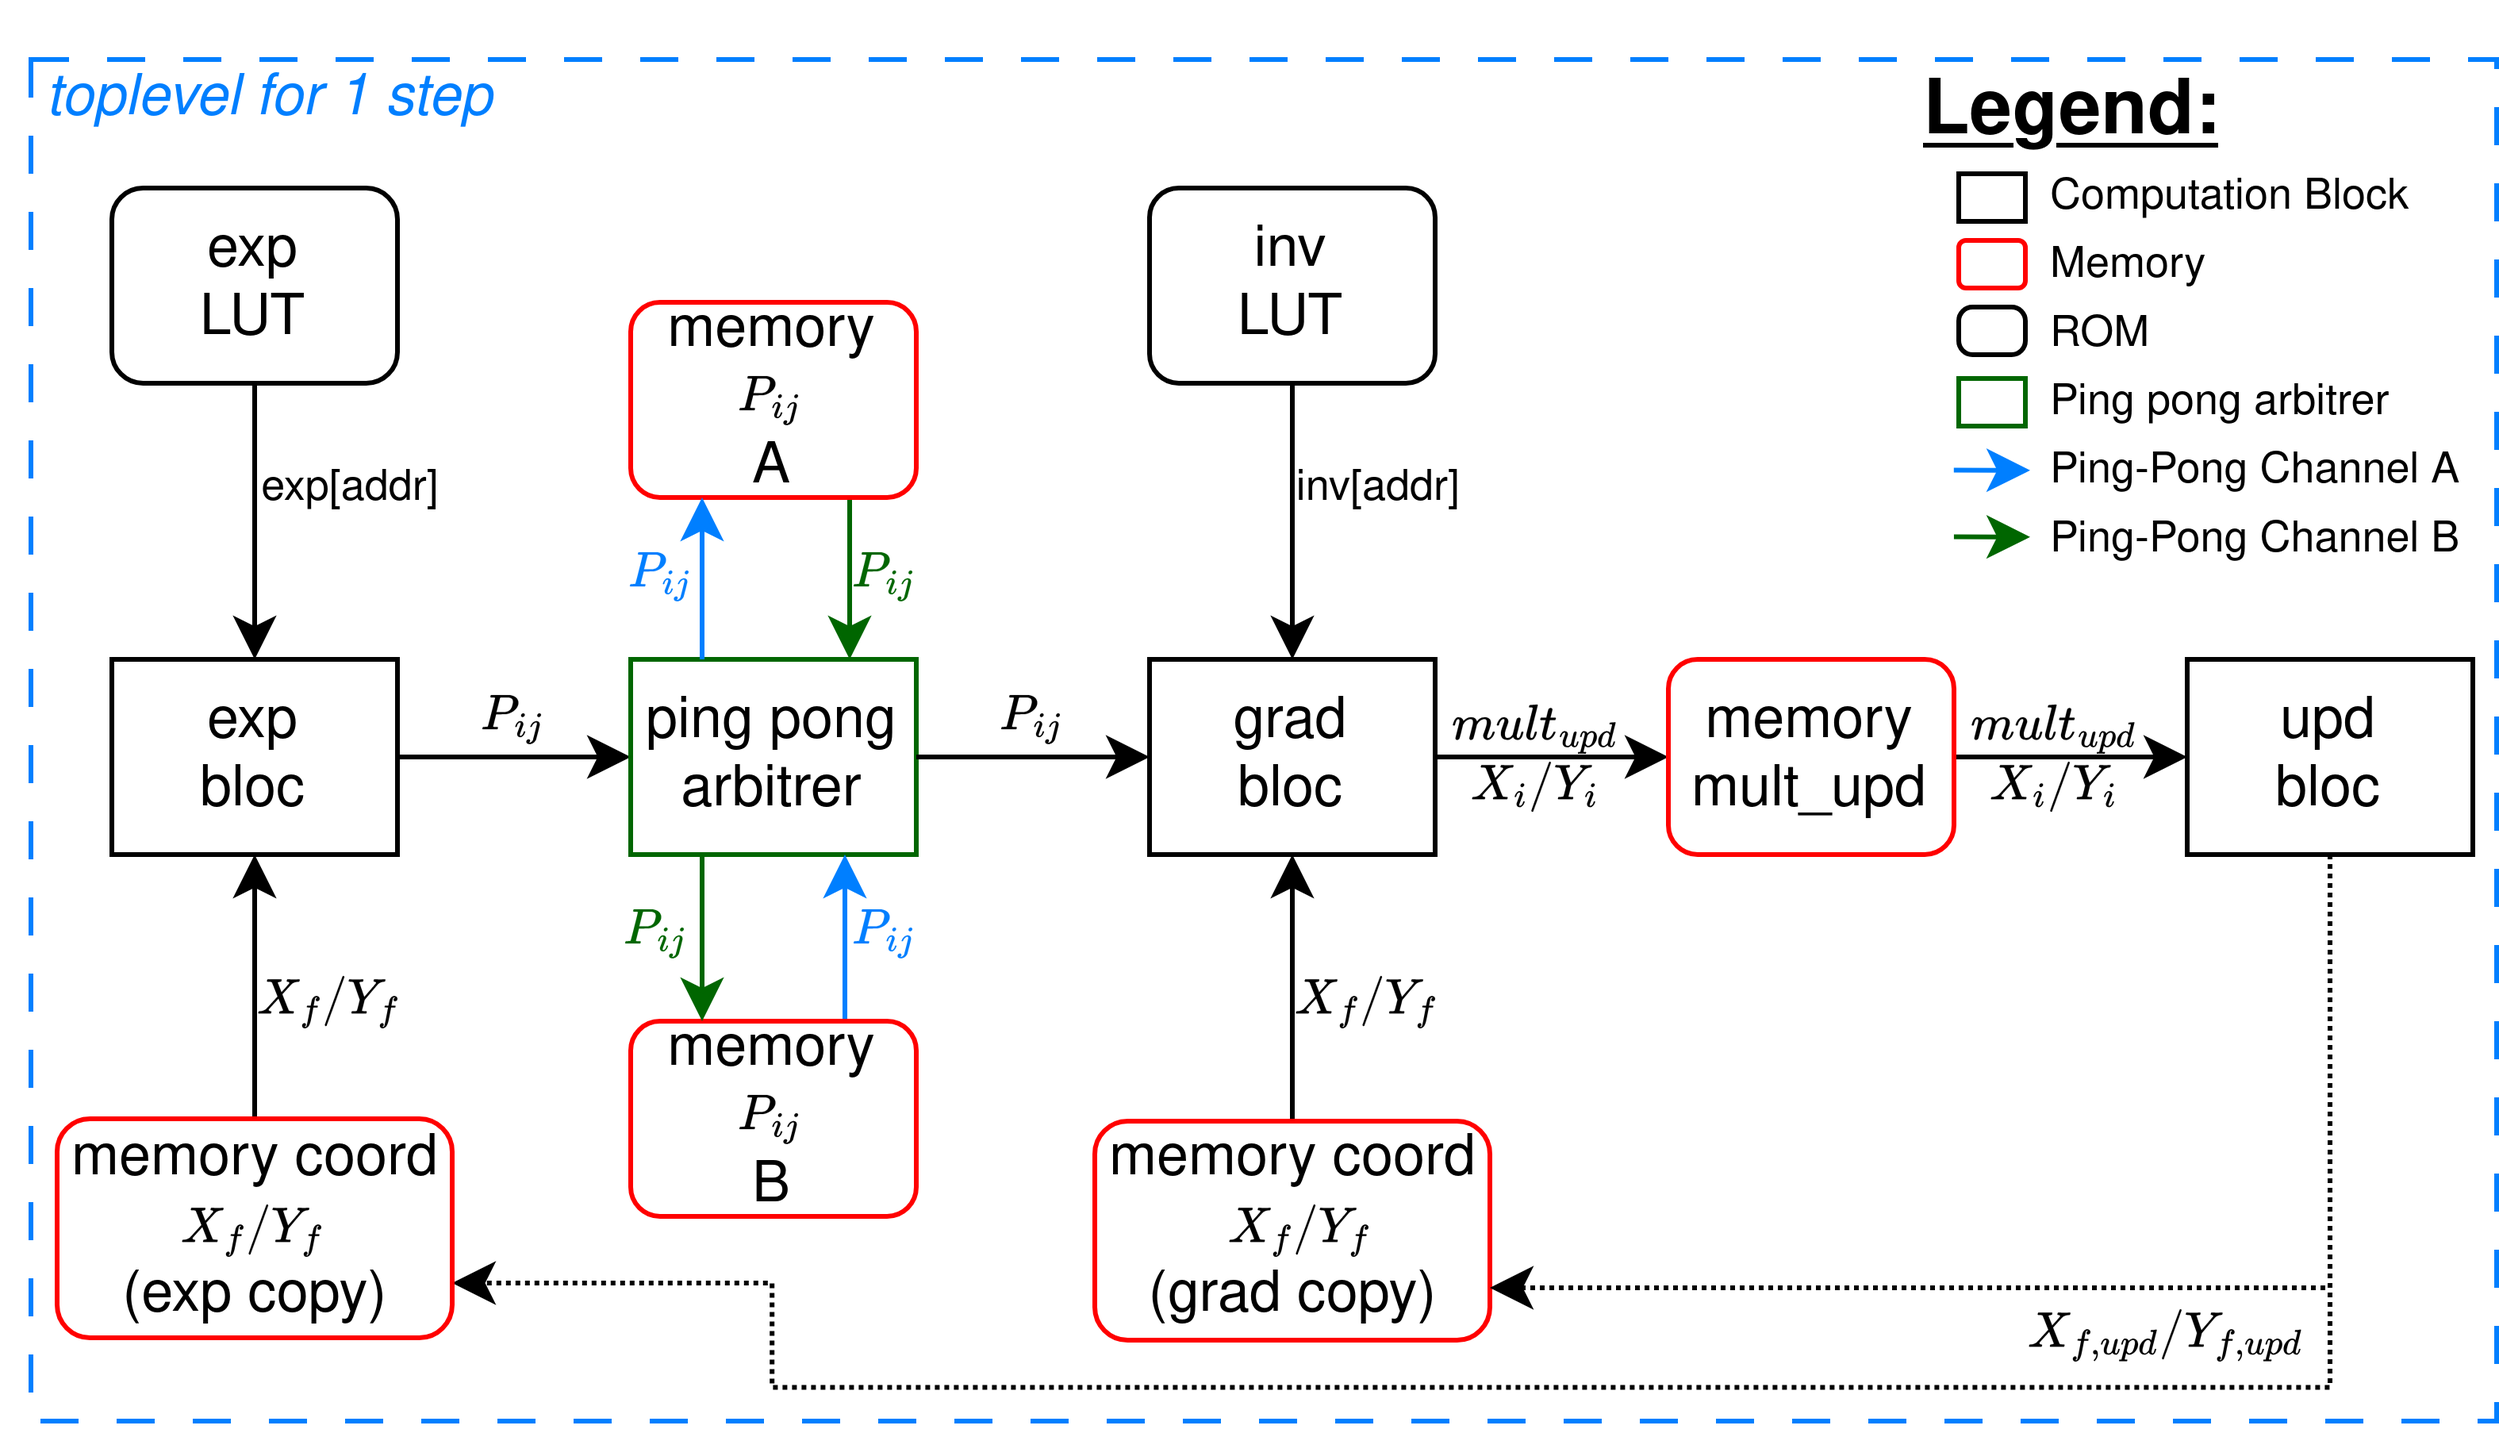
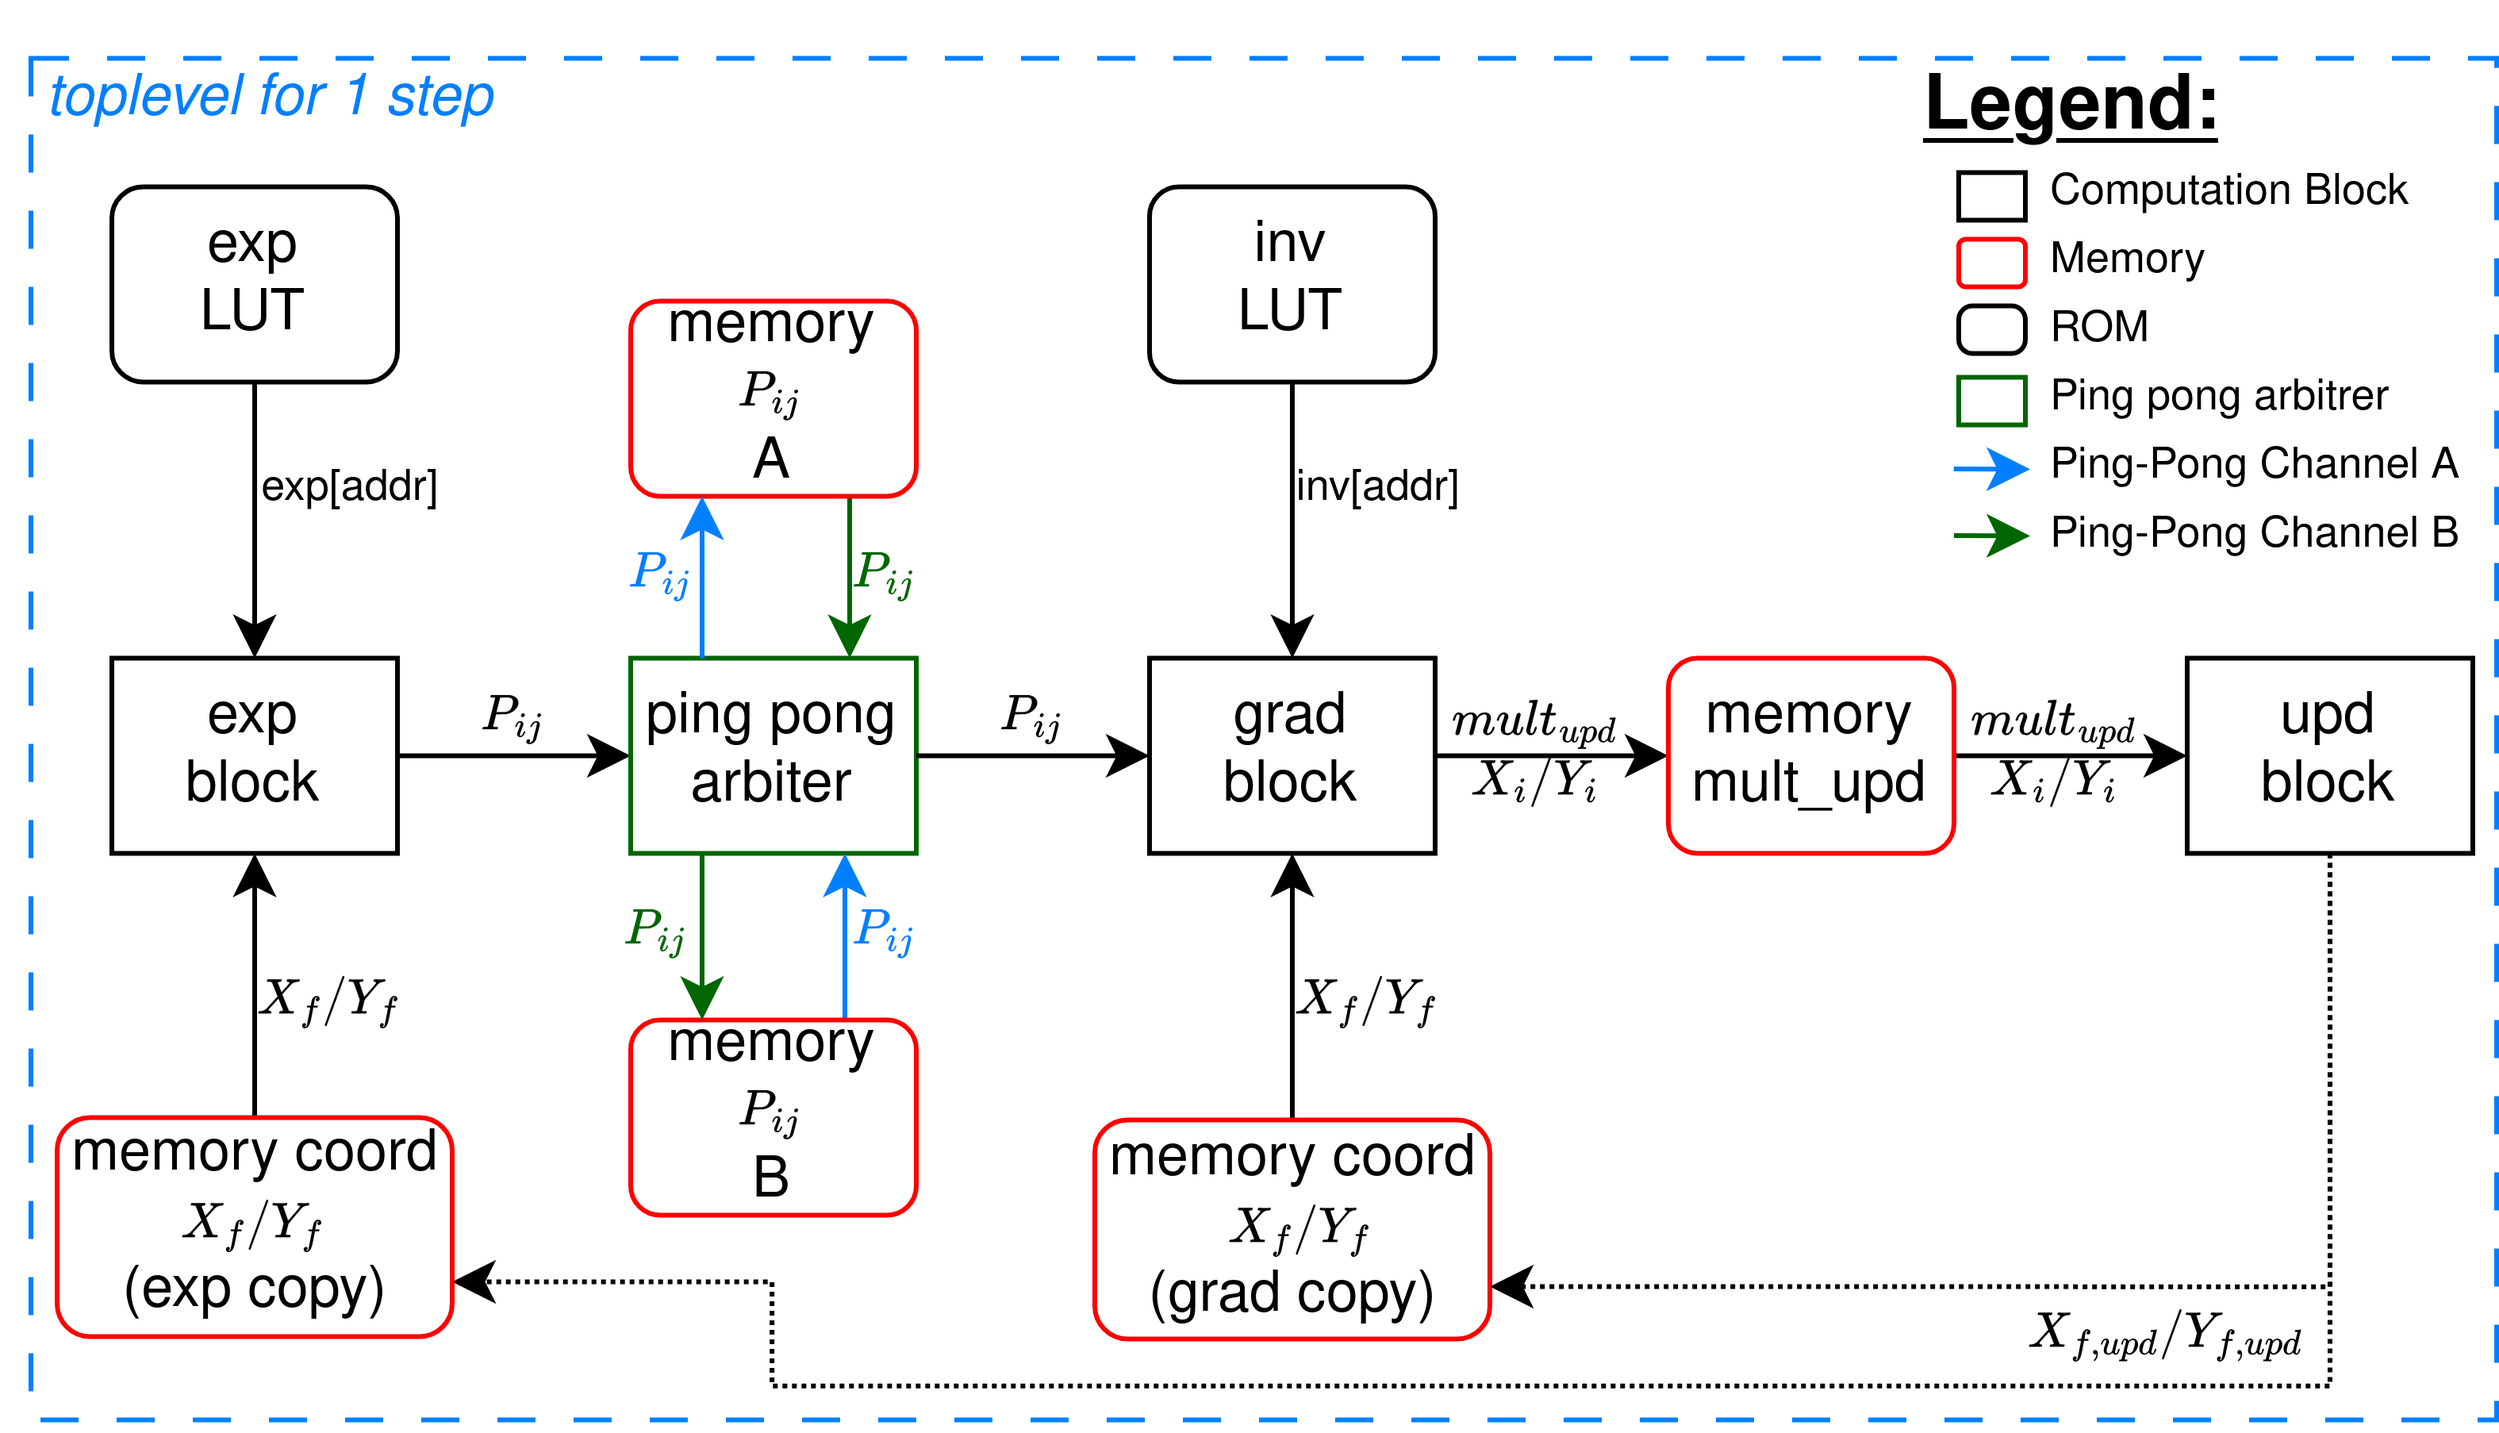
fix directory in .md files

diff --git a/docs/ARCHITECTURE.md b/docs/ARCHITECTURE.md
@@ -2,7 +2,7 @@
 
 Ce document détaille le cheminement complet du projet : du modèle logiciel de référence fourni par le laboratoire jusqu'à l'architecture matérielle SystemVerilog qui en découle, en passant par la quantification et les arbitrages de conception. Pour une vue d'ensemble rapide, voir le [README](../README.md). Pour le détail argumenté de chaque choix fort, voir les [ADR](decisions/).
 
-> **Périmètre de ce document** : l'architecture toplevel et les décisions de conception qui la structurent. Le détail micro-architectural interne des blocs `exp` et `grad` (pipeline interne, timing exact des états) n'est pas couvert ici — ce sera documenté séparément une fois stabilisé.
+> **Périmètre de ce document** : architecture toplevel et décisions de conception qui structurent le projet. Le détail micro-architectural interne des blocs de calcul [exp](blocks/exp_block.md), [grad](blocks/grad_block.md), [ping_pong_arbiter](blocks/ping_pong_arbiter.md), [upd](blocks/upd_block.md), [cluster_assign](blocks/cluster_assign.md) est couvert dans [blocks](blocks/).
 
 ---
 
@@ -24,7 +24,7 @@ C'est cette structure en deux temps — **la boucle itérative qui déplace les 
 
 ## 2. Le constat qui a orienté toute l'architecture : la matrice O(n²)
 
-En analysant le code de référence, le premier problème saute aux yeux : à chaque itération, l'algorithme construit et stocke intégralement une matrice `P` de taille `N × N`.
+En analysant le code de référence, le premier problème saute aux yeux : à chaque itération, l'algorithme construit et stocke intégralement une matrice `P` de taille `N × N` avec `N` le nombre de points du benchmark.
 
 Pour un jeu de test raisonnable de 1000 points, cela représente **1 000 000 de coefficients**. Même codés sur 16 bits (format Q0.16 après quantification), cela correspond à **2 Mo de mémoire, à reconstruire à chaque itération, pour une seule des N itérations de l'algorithme**. Sur une cible FPGA de taille modeste, ou a fortiori en vue d'un flot ASIC où chaque bit de mémoire a un coût en surface, cette approche telle quelle est inenvisageable.
 
@@ -48,7 +48,7 @@ Cette étape est traduite matériellement par le pipeline suivant, exécuté une
 
 ![Architecture matérielle toplevel, une itération](img/archi_part1.png)
 
-Le flux de données suit la même logique que le modèle logiciel (`exp` → matrice `P` → `grad` → mise à jour des coordonnées), mais **sans jamais matérialiser `P` en entier** : c'est tout l'objet du bloc `ping pong arbitrer` au centre du schéma, détaillé au §4.
+Le flux de données suit la même logique que le modèle logiciel (`exp` → matrice `P` → `grad` → mise à jour des coordonnées), mais **sans jamais matérialiser `P` en entier** : c'est tout l'objet du bloc `ping pong arbiter` au centre du schéma, détaillé au §4.
 
 ### Partie 2 — Association finale des clusters
 
@@ -58,9 +58,8 @@ Une fois les `N` itérations terminées, les coordonnées finales des points ont
 
 ![Architecture matérielle toplevel, association des clusters](img/archi_part2.png)
 
-Le détail interne du bloc `cluster assign` (comment les points sont regroupés et numérotés) n'est pas couvert dans ce document — il sera traité séparément.
 
-Un point de conception toplevel mérite cependant d'être noté ici : la mémoire `memory cluster` associe à chaque point son numéro de cluster, mais un point peut ne pas encore avoir été assigné. Là où le modèle logiciel de référence utilise une valeur sentinelle (`-1`) pour représenter cet état, l'architecture matérielle porte cette information via un **bit de validité dédié** (`valid_cluster`, visible sur le schéma ci-dessus) plutôt que par une valeur réservée dans le champ numéro-de-cluster. Voir [ADR-0006](decisions/0006-valid-bit-for-unassigned-cluster.md).
+Un point de conception toplevel mérite d'être noté ici : la mémoire `memory cluster` associe à chaque point son numéro de cluster, mais un point peut ne pas encore avoir été assigné. Là où le modèle logiciel de référence utilise une valeur sentinelle (`-1`) pour représenter cet état, l'architecture matérielle porte cette information via un **bit de validité dédié** (`valid_cluster`, visible sur le schéma ci-dessus) plutôt que par une valeur réservée dans le champ numéro-de-cluster. Voir [ADR-0006](decisions/0006-valid-bit-for-unassigned-cluster.md).
 
 ---
 
@@ -78,7 +77,7 @@ Cela fait chuter l'empreinte mémoire de `O(N²)` à `O(N)` — pour 1000 points
 
 Le simple enchaînement séquentiel décrit ci-dessus (exp écrit → grad lit → exp écrit à nouveau) introduit un temps mort important : `grad` doit attendre que `exp` ait fini d'écrire, et `exp` doit attendre que `grad` ait fini de lire avant de réutiliser le buffer.
 
-Pour recouvrir ces deux phases, l'architecture utilise **deux mémoires de ligne (A et B)** pilotées par un bloc `ping pong arbitrer` : pendant que `exp` écrit la ligne `i+1` dans la mémoire A, `grad` lit simultanément la ligne `i` (déjà produite) dans la mémoire B. Une fois les deux terminés, l'arbitre échange les rôles des deux mémoires, sans copie de données — seule la table d'aiguillage change.
+Pour recouvrir ces deux phases, l'architecture utilise **deux mémoires de ligne (A et B)** pilotées par un bloc `ping pong arbiter` : pendant que `exp` écrit la ligne `i+1` dans la mémoire A, `grad` lit simultanément la ligne `i` (déjà produite) dans la mémoire B. Une fois les deux terminés, l'arbitre échange les rôles des deux mémoires, sans copie de données — seule la table d'aiguillage change.
 
 Voir [ADR-0003](decisions/0003-ping-pong-buffering.md).
 
@@ -155,15 +154,8 @@ Voir [ADR-0001](decisions/0001-fixed-point-quantization-chain.md).
 
 La vérification du design suit deux niveaux, tous deux comparés au modèle de référence bit-exact décrit au §8 plutôt qu'à une resimulation flottante :
 
-- **Testbenchs unitaires**, un par bloc de calcul (`exp`, `grad`, `upd`, `ping pong arbitrer`, `cluster assign`, etc.), permettant d'isoler et de valider le comportement de chaque bloc indépendamment du reste de la chaîne — utile en particulier pour déboguer un bloc sans dépendre de la disponibilité ou de la correction des autres.
-- **Testbench d'intégration global**, exerçant l'ensemble du pipeline toplevel (les deux parties décrites au §3) sur un jeu de points complet, et comparant les résultats de bout en bout — coordonnées finales et clusters assignés — à ceux produits par le modèle de référence.
+- **Testbenchs unitaires**, un par bloc de calcul (`exp`, `grad`, `upd`, `cluster_assign`), permettant d'isoler et de valider le comportement de chaque bloc indépendamment du reste de la chaîne — utile en particulier pour déboguer un bloc sans dépendre de la disponibilité ou de la correction des autres.
+- **Testbench d'intégration global ou partiellement globel**, exerçant des ensembles ou la totalité du pipeline toplevel sur un jeu de points complet, et comparant les résultats de bout en bout — coordonnées finales et clusters assignés — à ceux produits par le modèle de référence.
 
 Dans les deux cas, la comparaison se fait directement contre les résultats intermédiaires produits par le modèle logiciel fixed-point (§8) : matrice `P` ligne par ligne, gradients, entropies, mises à jour de position. Un écart entre simulation RTL et modèle de référence est donc imputable sans ambiguïté au RTL, et non à un artefact de comparaison entre flottant et fixed-point.
 
-> Point d'attention pour la comparaison automatisée : le modèle de référence encode l'absence d'assignation de cluster par la valeur sentinelle `-1`, alors que le RTL l'encode par un bit de validité à 0 (voir [ADR-0006](decisions/0006-valid-bit-for-unassigned-cluster.md)). La comparaison doit traiter ces deux représentations comme équivalentes plutôt que comparer les champs bruts terme à terme.
-
-## 10. Prochaines étapes de documentation
-
-- Détail micro-architectural des blocs `exp` et `grad` (hors périmètre de ce document pour l'instant)
-- Détail du bloc `cluster assign`
-- Résultats de synthèse (ressources, fréquence max, latence par itération) une fois disponibles

diff --git a/docs/decisions/0002-single-row-streaming-vs-full-matrix.md b/docs/decisions/0002-single-row-streaming-vs-full-matrix.md
@@ -27,5 +27,5 @@ Option 2 : le bloc `exp` produit `P` ligne par ligne, consommée au fil de l'eau
 - Ce choix structure toute l'architecture mémoire du projet (voir [ADR-0003](0003-ping-pong-buffering.md) pour la suite directe de cette décision).
 
 **Négatives / limites**
-- Le simple enchaînement séquentiel (exp écrit → grad lit → exp écrit à nouveau) introduit un temps mort entre les deux blocs, qui a nécessité une solution complémentaire de recouvrement (voir ADR-0003).
-- Le calcul de la somme de normalisation d'une ligne, qui nécessitait auparavant une deuxième passe sur la matrice complète dans le modèle logiciel, doit être recalculé différemment pour rester compatible avec un flux ligne par ligne (accumulation à la volée par le bloc `exp`, voir ARCHITECTURE.md §6).
+- Le simple enchaînement séquentiel (exp écrit → grad lit → exp écrit à nouveau) introduit un temps mort entre les deux blocs, qui a nécessité une solution complémentaire de recouvrement (voir [ADR-0003](0003-ping-pong-buffering.md)).
+- Le calcul de la somme de normalisation d'une ligne, qui nécessitait auparavant une deuxième passe sur la matrice complète dans le modèle logiciel, doit être recalculé différemment pour rester compatible avec un flux ligne par ligne (accumulation à la volée par le bloc `exp`, voir [ARCHITECTURE.md](../ARCHITECTURE.md) §6).

diff --git a/docs/blocks/exp_block.md b/docs/blocks/exp_block.md
@@ -4,7 +4,7 @@ Produces one row of the unnormalized Gaussian-kernel similarity matrix `P` per s
 
 See [`ARCHITECTURE.md`](../ARCHITECTURE.md) for how this block fits in the toplevel pipeline. Related decisions: [ADR-0001](../decisions/0001-fixed-point-quantization-chain.md) (quantization chain), [ADR-0002](../decisions/0002-single-row-streaming-vs-full-matrix.md) (row streaming instead of full matrix), [ADR-0003](../decisions/0003-ping-pong-buffering.md) (ping-pong buffering, credit-based flow control), [ADR-0004](../decisions/0004-lut-exponential-vs-cordic.md) (LUT instead of CORDIC).
 
-RTL: [`dist_mat_arg_exp.sv`](../../rtl/dist_mat_arg_exp.sv)
+RTL: [`dist_mat_arg_exp.sv`](../../frontend/rtl/dist_mat_arg_exp.sv)
 
 ---
 

diff --git a/docs/blocks/grad_block.md b/docs/blocks/grad_block.md
@@ -4,7 +4,7 @@ Consumes one row of `P_ij` (produced by the `exp` block, buffered through the pi
 
 See [`ARCHITECTURE.md`](../ARCHITECTURE.md) for the toplevel view. Related decisions: [ADR-0001](../decisions/0001-fixed-point-quantization-chain.md) (quantization chain), [ADR-0002](../decisions/0002-single-row-streaming-vs-full-matrix.md) (row streaming), [ADR-0003](../decisions/0003-ping-pong-buffering.md) (ping-pong buffering), [ADR-0004](../decisions/0004-lut-exponential-vs-cordic.md) (LUT-based inverse), [ADR-0005](../decisions/0005-gini-entropy-vs-shannon.md) (Gini entropy).
 
-RTL: [`norm_entropy_grad.sv`](../../rtl/norm_entropy_grad.sv)
+RTL: [`norm_entropy_grad.sv`](../../frontend/rtl/norm_entropy_grad.sv)
 
 ---
 

diff --git a/docs/blocks/ping_pong_arbiter.md b/docs/blocks/ping_pong_arbiter.md
@@ -4,7 +4,7 @@ Arbitrates access to the two `P_ij` line buffers (memory A / memory B) that impl
 
 See [`ARCHITECTURE.md`](../ARCHITECTURE.md) §4 for the toplevel view of the ping-pong mechanism, and [ADR-0003](../decisions/0003-ping-pong-buffering.md) for the design rationale. This module is the direct RTL implementation of that decision.
 
-RTL: [`ping_pong_arbiter.sv`](../../rtl/ping_pong_arbiter.sv)
+RTL: [`ping_pong_arbiter.sv`](../../frontend/rtl/ping_pong_arbiter.sv)
 
 
 ---

diff --git a/docs/blocks/upd_block.md b/docs/blocks/upd_block.md
@@ -2,7 +2,7 @@
 
 Applies the per-point update contribution (`mult_act_X/Y`, produced by the `grad` block and staged in `memory mult_upd`) to the current coordinates, one point at a time, closing out the iteration. This is the `upd block` in [`ARCHITECTURE.md`](../ARCHITECTURE.md) §3.
 
-RTL: [`act_coord.sv`](../../rtl/act_coord.sv)
+RTL: [`act_coord.sv`](../../frontend/rtl/act_coord.sv)
 
 ## Role, and the duplicated-memory write
 
